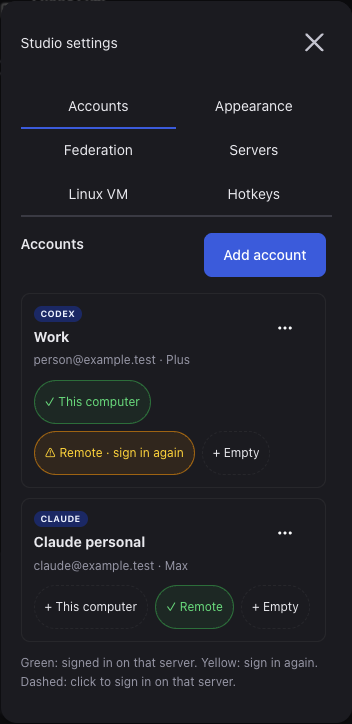
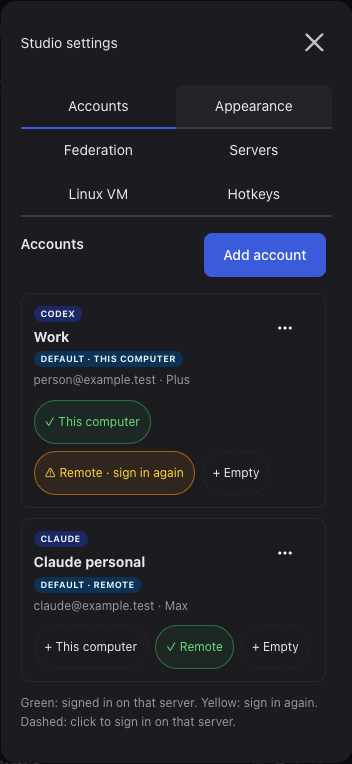
Show per-server default account badges

diff --git a/web/src/servers/ServerAccountsPanel.tsx b/web/src/servers/ServerAccountsPanel.tsx
@@ -116,6 +116,18 @@ export default function ServerAccountsPanel({
                       {row.provider === "claude" ? "Claude" : "Codex"}
                     </Badge>
                     <strong>{row.label || row.email || "Account"}</strong>
+                    {servers
+                      .filter((server) => row.byServer[server.id]?.isDefault)
+                      .map((server) => (
+                        <Badge
+                          key={server.id}
+                          size="xs"
+                          color="blue"
+                          variant="light"
+                        >
+                          Default · {server.label}
+                        </Badge>
+                      ))}
                     {!row.email && (
                       <span className="account-muted">Email unavailable</span>
                     )}

diff --git a/web/src/servers/MultiServerApp.tsx b/web/src/servers/MultiServerApp.tsx
@@ -493,7 +493,8 @@ export default function MultiServerApp() {
             (row.email !== null && typeof row.email !== "string") ||
             (row.plan !== null && typeof row.plan !== "string") ||
             typeof row.status !== "string" ||
-            typeof row.label !== "string"
+            typeof row.label !== "string" ||
+            typeof row.isDefault !== "boolean"
           )
             return;
           accounts.push({
@@ -502,6 +503,7 @@ export default function MultiServerApp() {
             plan: row.plan,
             status: row.status,
             label: row.label,
+            isDefault: row.isDefault,
           });
         }
         setAccountsByServer((old) => ({ ...old, [id]: accounts }));

diff --git a/web/src/App.tsx b/web/src/App.tsx
@@ -718,6 +718,7 @@ export default function App() {
         plan: account.plan || null,
         status: account.disconnected ? "signedOut" : account.status,
         label: account.label,
+        isDefault: account.id === accounts.data.defaultAccountKey,
       })),
     [accounts.data.accounts],
   );

diff --git a/web/src/servers/frameBridge.ts b/web/src/servers/frameBridge.ts
@@ -120,6 +120,7 @@ export function useServerFrame(
       plan: account.plan,
       status: account.status,
       label: account.label,
+      isDefault: account.isDefault,
     }));
     window.parent.postMessage(
       {

diff --git a/web/src/servers/navigation.ts b/web/src/servers/navigation.ts
@@ -10,6 +10,7 @@ export type ServerAccount = {
   plan: string | null;
   status: string;
   label: string;
+  isDefault: boolean;
 };
 export type ServerNavigation = {
   projects: { path: string; name: string }[];
